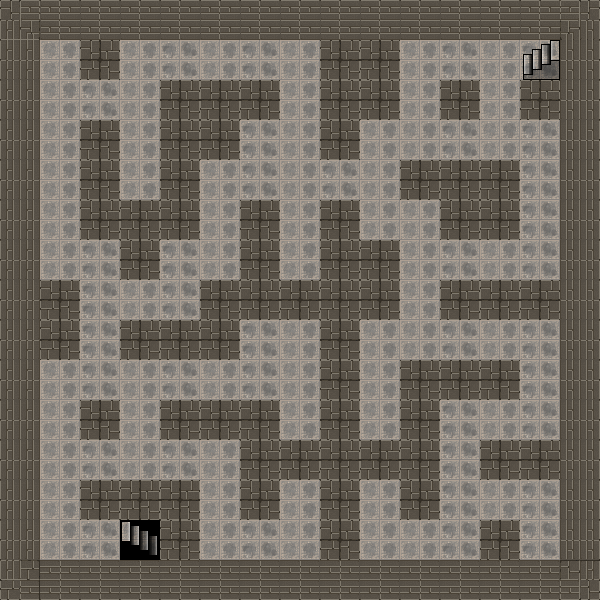
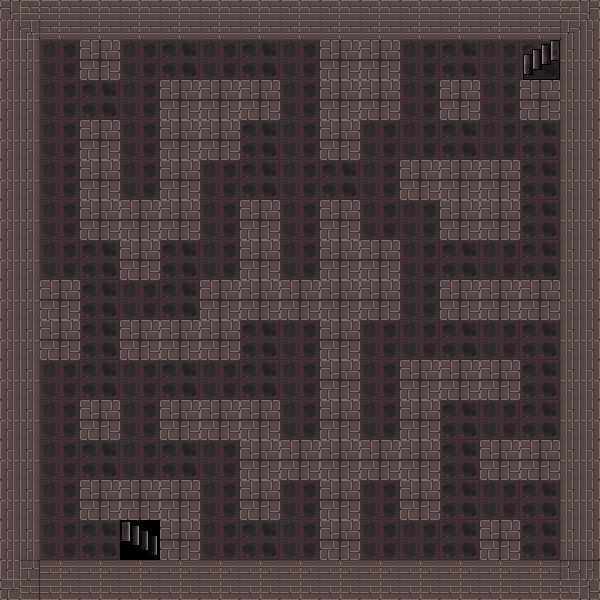
Random spawn pour items, changement graphique

diff --git a/game.py b/game.py
@@ -3,7 +3,7 @@ from hero import Hero
 from enemy import Enemy
 from walls import Walls
 from floor import Floor
-# from items import Items
+from items import Items
 
 class Game:
     """Class importing elements from other classes for the game to work"""
@@ -15,7 +15,7 @@ class Game:
         self.enemy = Enemy()
         self.walls = Walls()
         self.floor = Floor()
-        # self.tube = Items('ressource/tube.png')
-        # self.needle = Items('ressource/needle.png')
-        # self.ether = Items('ressource/ether.png')
-        # self.syringe = Items('ressource/syringe.png')
+        self.tube = Items(pygame.image.load('ressource/tube.png'), )
+        self.needle = Items(pygame.image.load('ressource/needle.png'))
+        self.ether = Items(pygame.image.load('ressource/ether.png'))
+        # self.syringe = Items(pygame.image.load('ressource/syringe.png'))

diff --git a/main.py b/main.py
@@ -17,9 +17,12 @@ while playable:
     # main game code
     
     board.blit(background, (0, 0))
-    board.blit(inventory, (260, 567))
-    board.blit(game.hero.image, game.hero.rect)
+    board.blit(inventory, (230, 562))
     board.blit(game.enemy.image, game.enemy.rect)
+    board.blit(game.tube.image, game.tube.placement)
+    board.blit(game.needle.image, game.needle.placement)
+    board.blit(game.ether.image, game.ether.placement)
+    board.blit(game.hero.image, game.hero.rect)
 
     pygame.display.flip()
 

diff --git a/items.py b/items.py
@@ -13,15 +13,13 @@ class Items:
     MAX_TILE_AXIS_Y = 600
     AXIS_Y_INTERVAL = 40
 
-    FLOOR = Floor.defineFloorTiles()
+
 
     def __init__(self, image):
 
+        FLOOR = Floor.defineFloorTiles()
+        I = random.randrange(0, len(FLOOR))
+
         self.image = image
+        self.placement = FLOOR[I]
         self.rect = self.image.get_rect()
-        self.rect.x = x
-        self.rect.y = y
-    
-    @classmethod
-    def randomPlacement(cls):
-        pass
